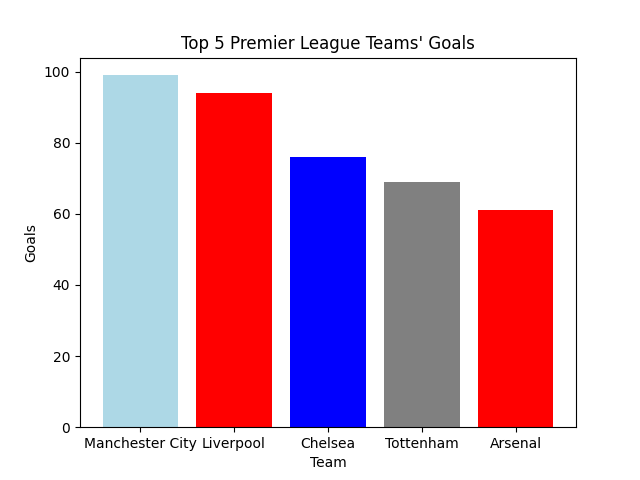
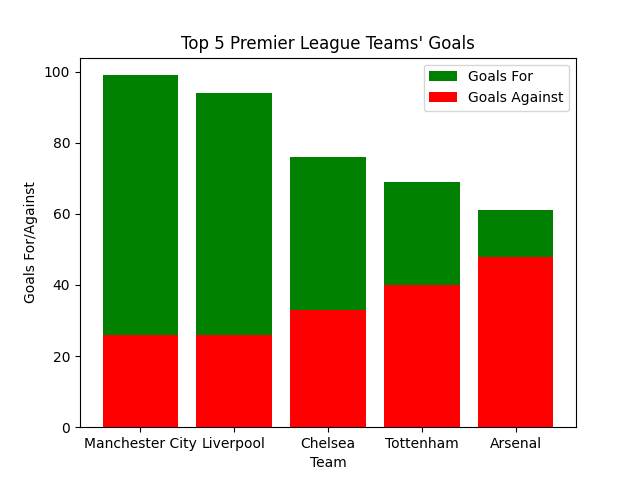
updated top5goals figure to include both goals for and goals against

diff --git a/explore.py b/explore.py
@@ -10,13 +10,14 @@ print(epl)
 print(epl.describe())
 print(epl.info())
 
-epl_goals_top5 = epl[['Squad', 'GF', 'LgRk']]
+epl_goals_top5 = epl[['Squad', 'GF', 'GA', 'LgRk']]
 epl_goals_top5 = epl_goals_top5[epl_goals_top5.LgRk < 6]
 
-
-plt.bar(data=epl_goals_top5, x='Squad', height='GF', color=['lightblue', 'red', 'blue', 'gray', 'red'])
+plt.bar(data=epl_goals_top5, x='Squad', height='GF', color=['green'])
+plt.bar(data=epl_goals_top5, x='Squad', height='GA', color=['red'])
 plt.title('Top 5 Premier League Teams\' Goals')
 plt.xlabel("Team")
-plt.ylabel("Goals")
+plt.ylabel("Goals For/Against")
+plt.legend(['Goals For', 'Goals Against'])
 plt.show()
 plt.close()
